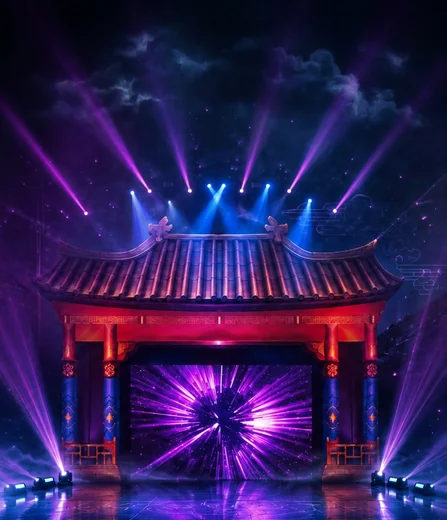
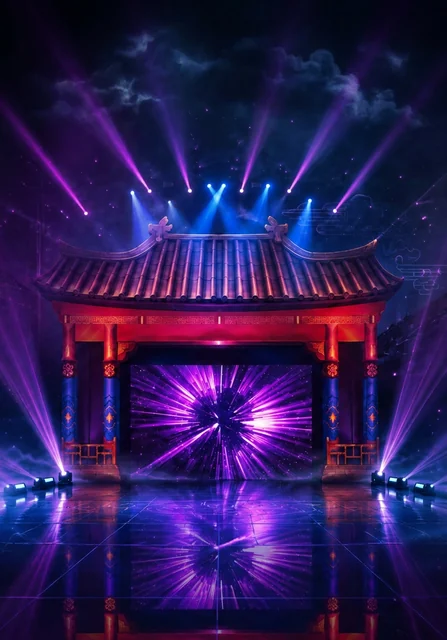
Tributo ao Vivo (smartphone noite): cortar 80% + menos zoom
Cortar a imagem de fundo do Tributo ao Vivo (modo noite, smartphone)
para 80% da altura original — menos zoom, mostra mais do palco.

1. IMAGEM CORTADA (80%):
   - Original: 447x800
   - Cortada: 447x640 (80% da altura)
   - Tamanho: 44.2 KB
   - Mantém: pavilhão oriental + tela digital + luzes + parte do reflexo
   - Removido: apenas o excesso inferior (20% = reflexo distante)

2. CSS (mobile <768px):
   - background-size: 100% auto (largura toda, não estica)
   - background-position: top center
   - background-color: #2A0834 (combina com borda inferior)
   - background-repeat: no-repeat

Resultado: imagem termina perto do botão, menos zoom, mais palco visível.

Cache-buster bumped: ?v=51 -> ?v=52.

diff --git a/src/app/globals.css b/src/app/globals.css
@@ -2623,13 +2623,13 @@ html { scroll-behavior: smooth; }
     background-position: right top;
   }
 }
-/* ═══ SMARTPHONE (<768px) — usar imagem de fundo própria (retrato 447x520, cortada) ═══
-   A imagem foi cortada para remover o excesso inferior (reflexo no chão).
-   Agora termina perto do botão "Garante o Teu Lugar", com pouca margem.
-   - background-image: espetaculo-bg-dark-mobile.webp (447x520, retrato cortado)
+/* ═══ SMARTPHONE (<768px) — usar imagem de fundo própria (retrato 447x640, cortada 80%) ═══
+   A imagem foi cortada para remover o excesso inferior (reflexo no chão)
+   mas mantendo 80% da altura (menos zoom — mostra mais do palco).
+   - background-image: espetaculo-bg-dark-mobile.webp (447x600, retrato cortado)
    - background-size: 100% auto (mostra largura toda, não estica altura)
-   - background-position: top (começa no topo)
-   - background-color: #2C31A4 (combina com a borda inferior da imagem)
+   - background-position: top center (começa no topo)
+   - background-color: #2A0834 (combina com a borda inferior da imagem)
    A parte de baixo da secção (botão + neon divider) tem a cor de fundo. */
 @media (max-width: 767px) {
   .espetaculo-section {
@@ -2638,7 +2638,7 @@ html { scroll-behavior: smooth; }
     background-position: top center !important;
     background-attachment: scroll !important;
     background-repeat: no-repeat !important;
-    background-color: #2C31A4 !important;
+    background-color: #2A0834 !important;
   }
 }
 
